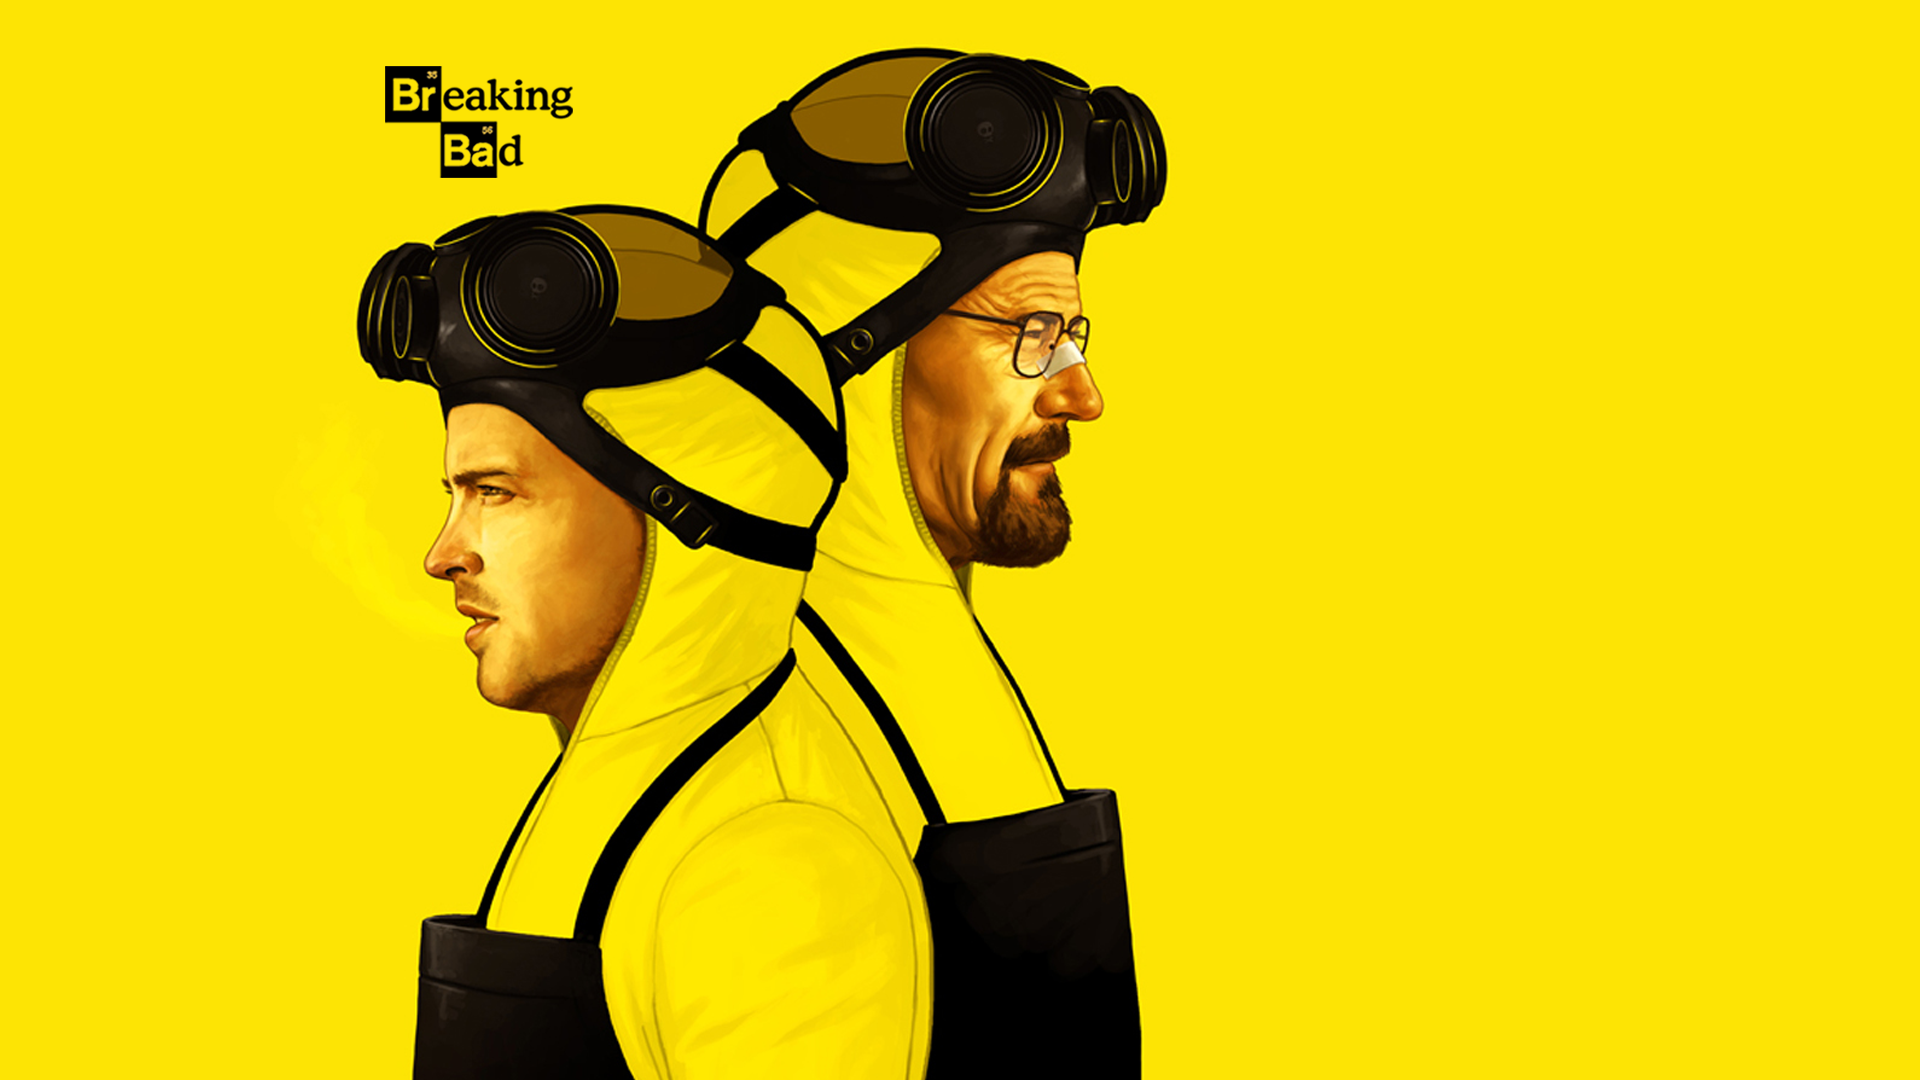
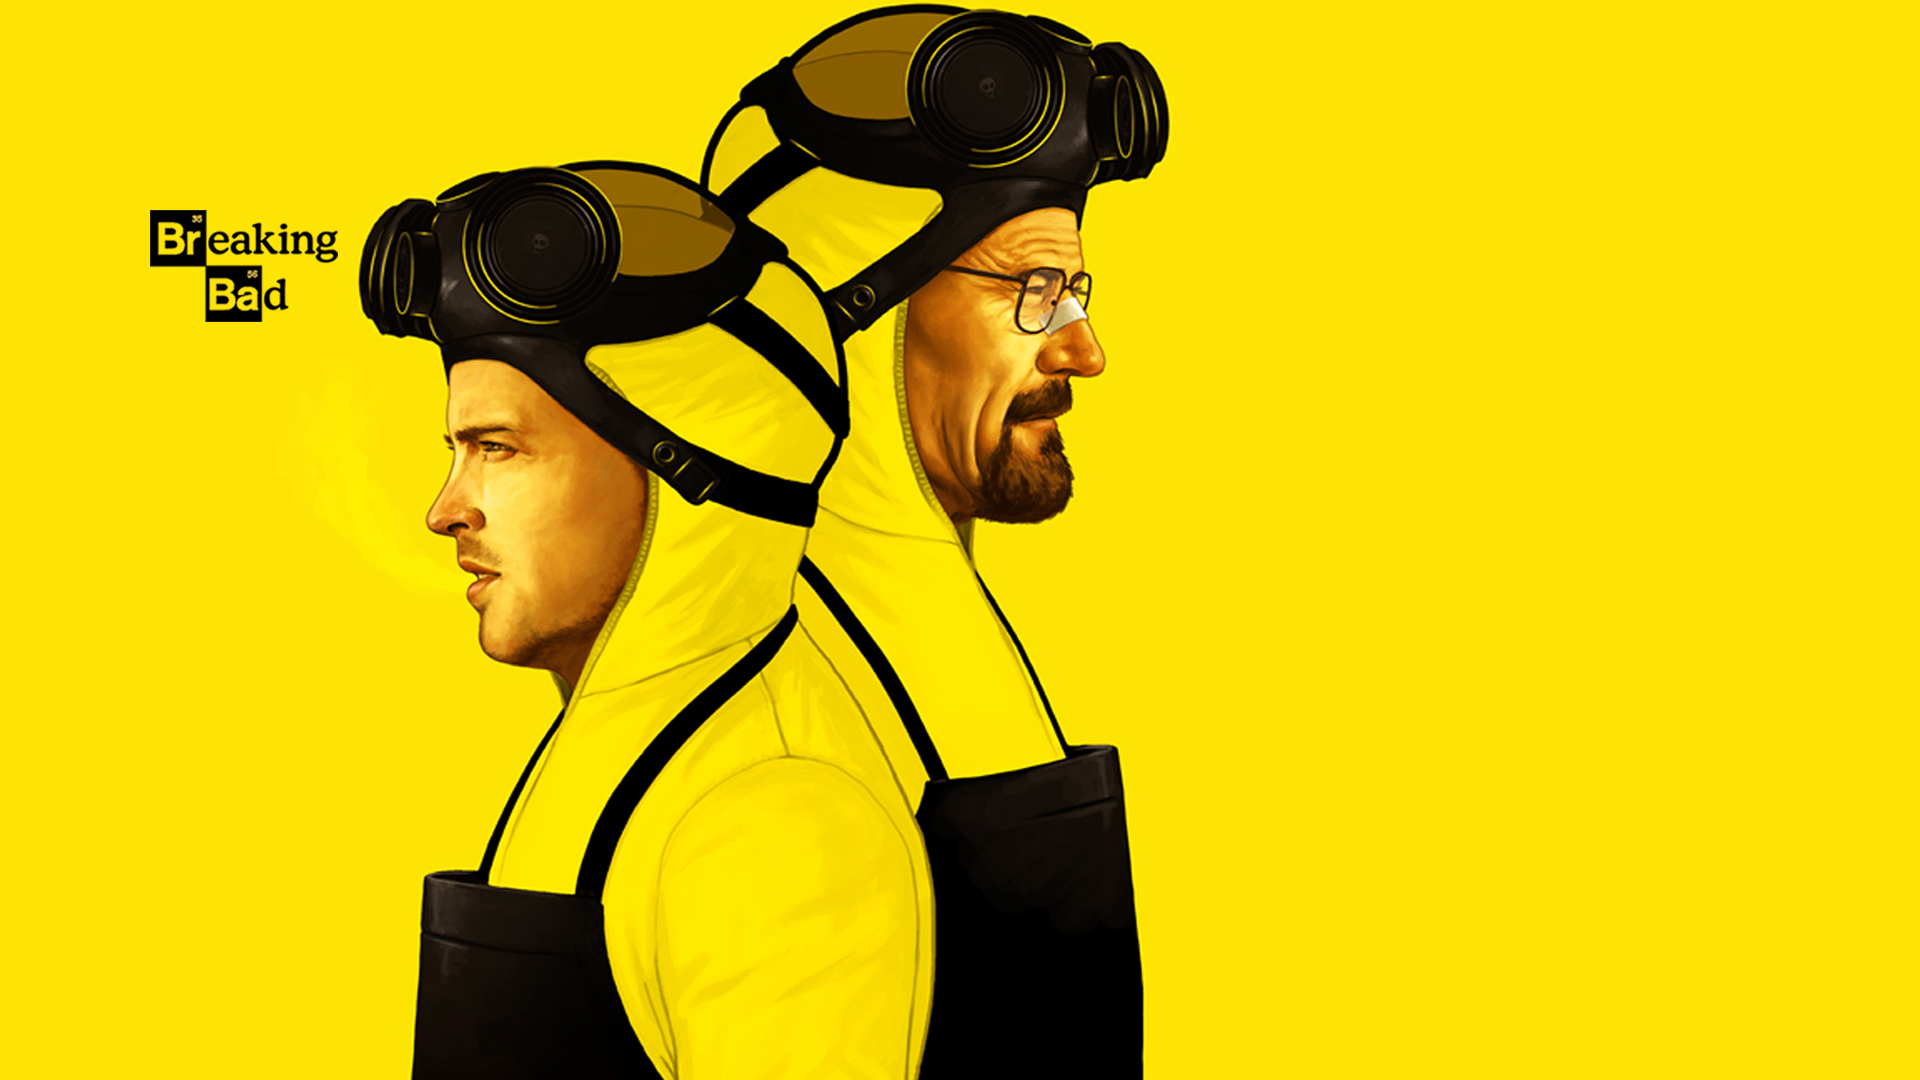
rearranging breakingbad

Changed region(s): [[0.0625, 0.0, 0.625, 1.0]]

diff --git a/wp-content/themes/basic/style.css b/wp-content/themes/basic/style.css
@@ -140,26 +140,26 @@ body {
 ************Breaking Bad************/
 .icecream3d img{
     height: 60px;
-    position:absolute; left:72px; top:52px;
+    position:absolute; left:52px; top:52px;
     background-repeat: no-repeat;
     z-index: 12;
 }
 
-.minilogo h1{
+/*.minilogo h1{
   position:absolute; left:20px; top:2px;
   font-size: 20px;
   color: white;
   font-family: 'Teko', sans-serif;
   text-shadow: 4px 3px 0px #A92F53, 9px 8px 0px rgba(0,0,0,0.0);
   z-index: 12;
-}
+}*/
 
 .uglybanner {
   height: 100px;
   width: 100px;
   background-color: #FFF7F7;
   border-radius: 80px 80px 80px 80px;
-  position:absolute; left:60px; top:30px;
+  position:absolute; left:40px; top:30px;
   z-index: 11;
 }
 
@@ -178,7 +178,7 @@ body {
 }
 
 .bbnav {
-  position: absolute; left:105px;top:340px; 
+  position: absolute; left:105px;top:300px; 
   font-size: 43px;
   padding: 5px;
   font-family: 'Bangers', cursive;
@@ -191,35 +191,35 @@ body {
 }
 
 .postpost h1 {
-  position:absolute; left:1030px; top:185px;
+  position:absolute; left:1050px; top:105px;
   font-family: 'Bangers', cursive;
   font-size: 60px;
   color: #060500;
 }
 
 .postpost h6 {
-  position:absolute; left:940px; top:280px;
+  position:absolute; left:960px; top:210px;
   width: 340px;
-  line-height: 2em;
+  line-height: 2.5em;
   font-family: 'quantico', cursive;
 }
 
 .awardspostpostbox {
-    width: 450px;
-    height: 300px;
+    width: 500px;
+    height: 350px;
     overflow: auto;
 }
 .awardspostpost h1 {
-  position:absolute; left:825px; top:185px;
+  position:absolute; left:1040px; top:105px;
   font-family: 'Bangers', cursive;
   font-size: 60px;
   color: #060500;
 }
 
 .awardspostpost h6 {
-  position:absolute; left:700px; top:280px;
-  width: 410px;
-  line-height: 2em;
+  position:absolute; left:920px; top:210px;
+  width: 380px;
+  line-height: 2.5em;
   font-family: 'quantico', cursive;
 }
 
